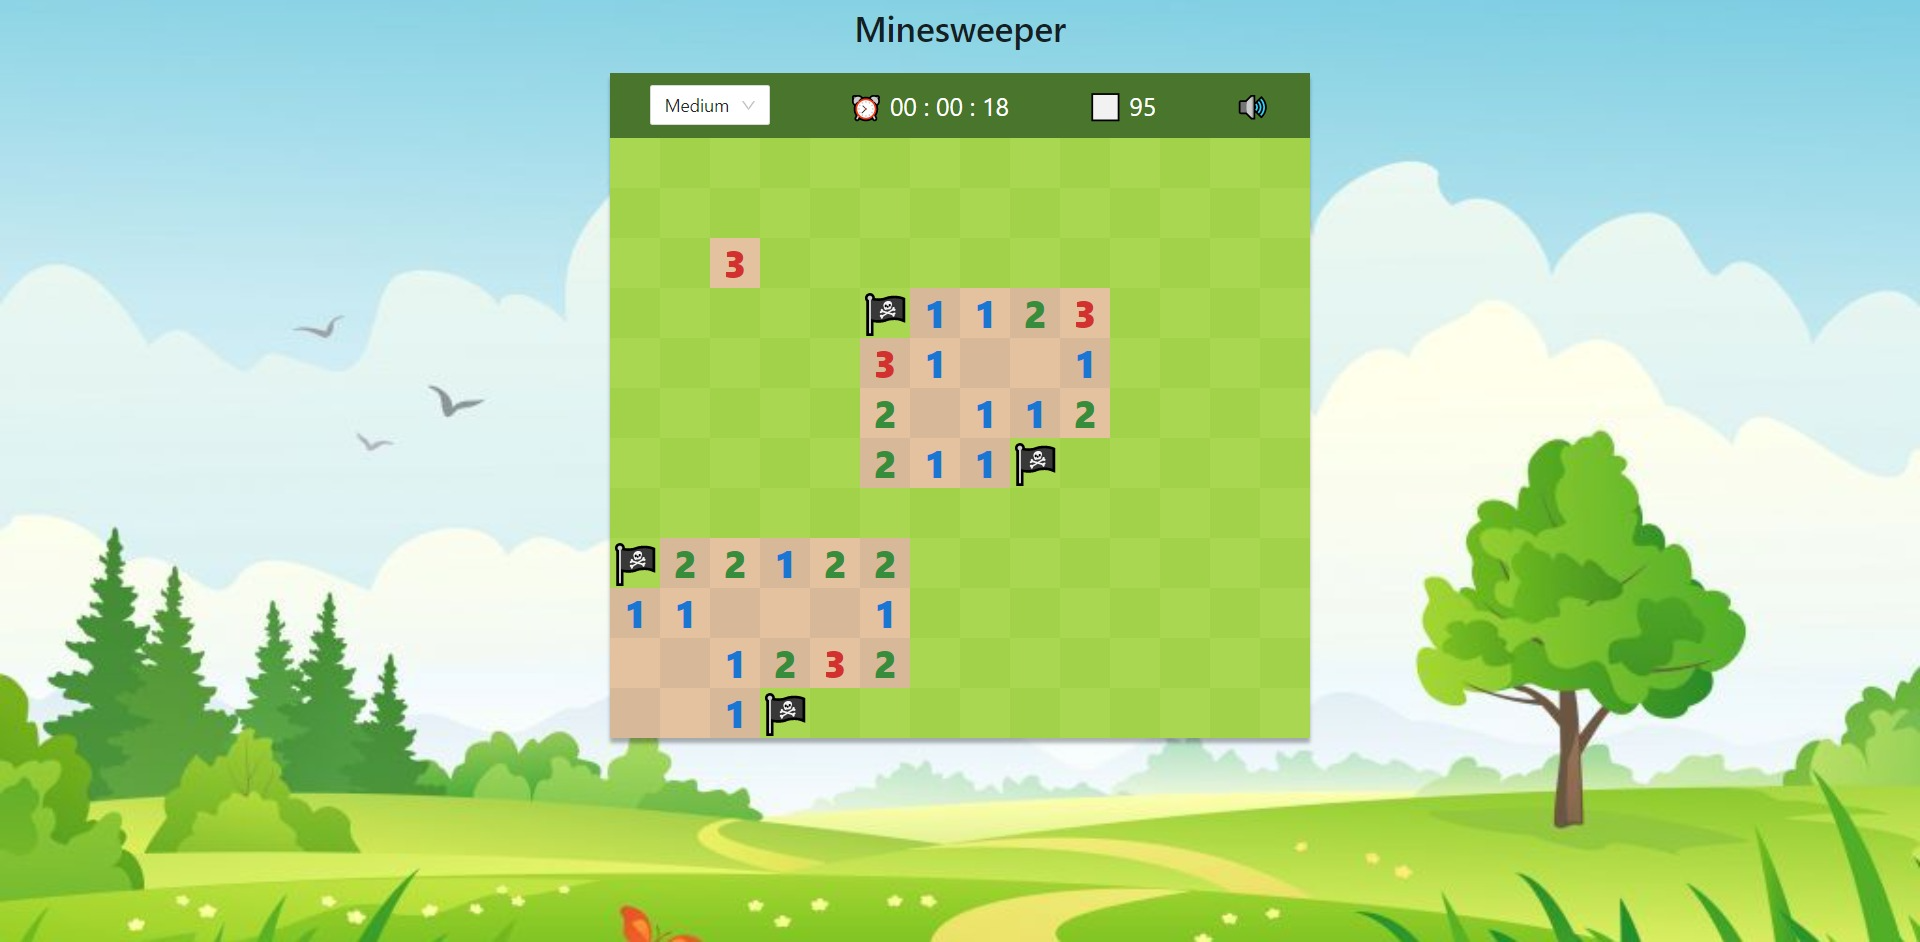
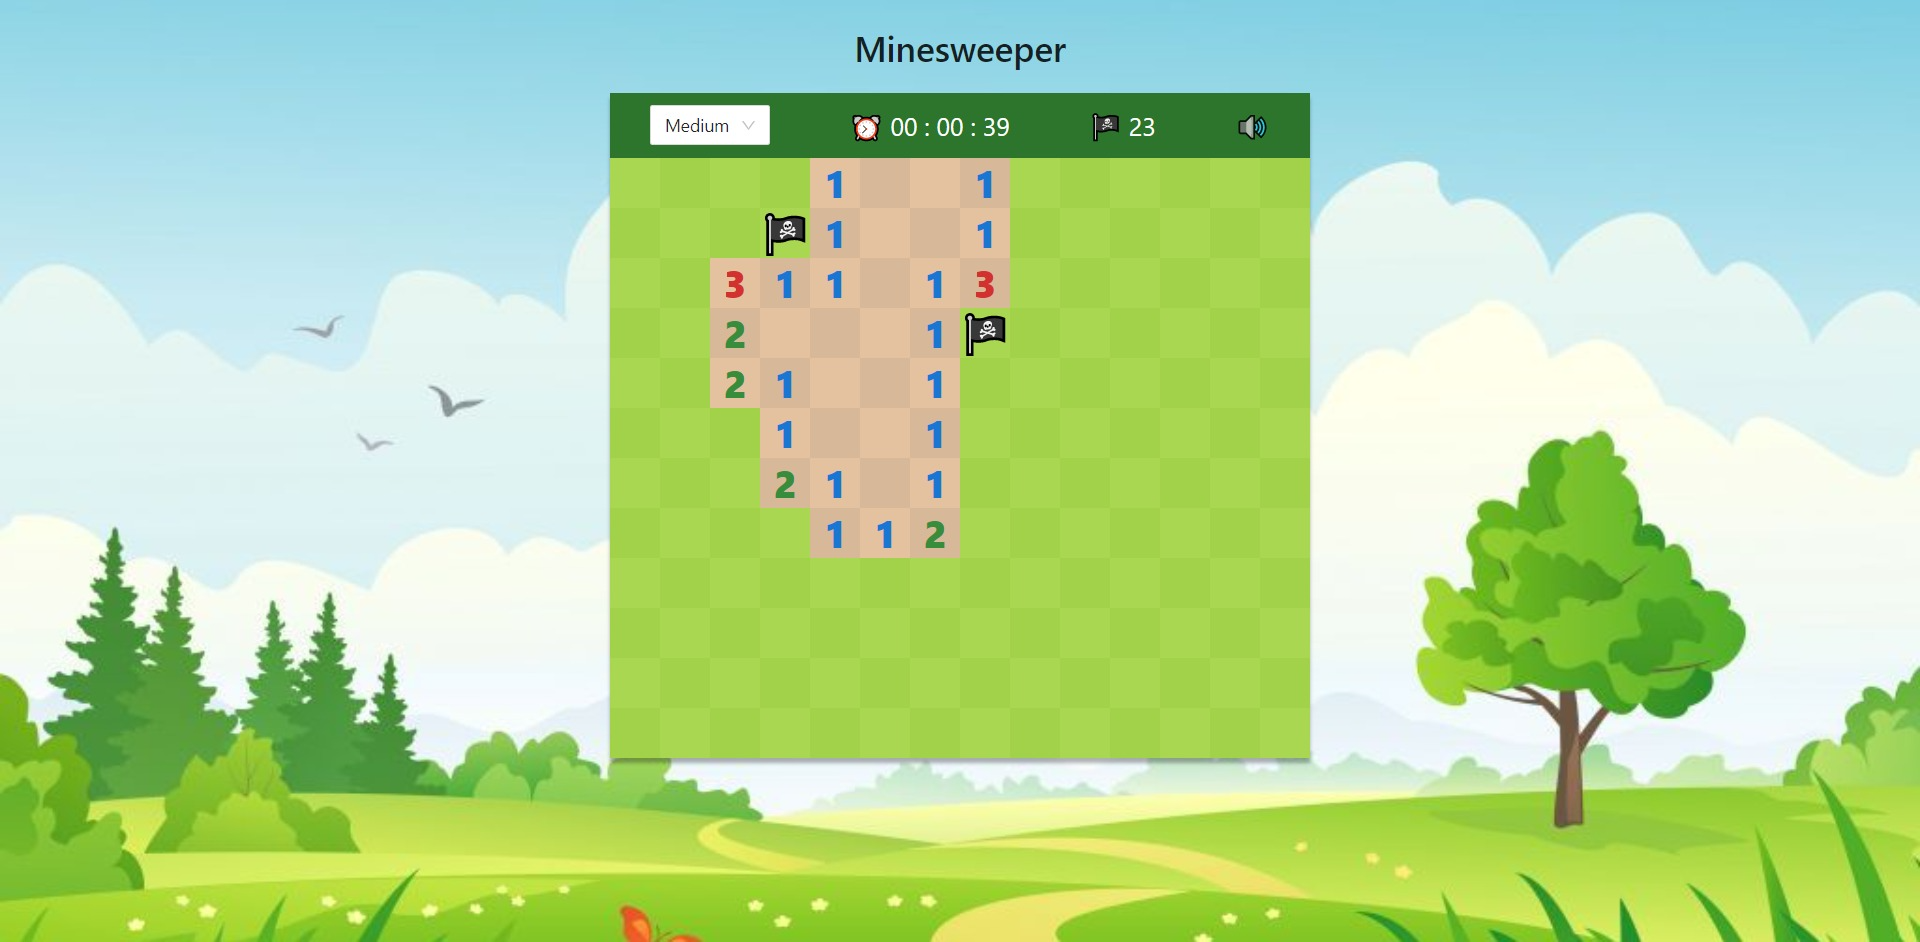
update component  Guide

Changed region(s): [[0.3125, 0.0, 0.6875, 0.8312]]

diff --git a/src/components/Board.js b/src/components/Board.js
@@ -5,7 +5,13 @@ import revealed from "../util/reveal";
 import createBoard from "../util/createBoard";
 
 import { BOARD_GAME } from "../util/constants";
-import { audioRevealed, audioGameOver, audioGameWin } from "../util/audio";
+import {
+  audioRevealed,
+  audioFlagged,
+  audioGameOver,
+  audioGameWin,
+} from "../util/audio";
+import Guide from "./Guide";
 
 const Board = ({
   setIsRunning,
@@ -15,11 +21,14 @@ const Board = ({
   isRestartGame,
   setIsRestartGame,
   level,
-  nonMinesCount,
-  setNonMinesCount,
+  setMinesCount,
+  minesCount,
+  gameOver,
 }) => {
   const [board, setBoard] = useState([]);
+  const [nonMinesCount, setNonMinesCount] = useState(0);
   const [mineLocations, setMineLocations] = useState([]);
+  const [showGuide, setShowGuide] = useState(true);
 
   useEffect(() => {
     const generateBoard = () => {
@@ -34,6 +43,7 @@ const Board = ({
         BOARD_GAME[level].numColumn * BOARD_GAME[level].numRow -
           BOARD_GAME[level].numBomb
       );
+      setMinesCount(BOARD_GAME[level].numBomb);
       setBoard(getBoard.board);
       setMineLocations(getBoard.mineLocation);
       setGameOver(false);
@@ -49,6 +59,7 @@ const Board = ({
     setGameOver,
     setGameWin,
     setNonMinesCount,
+    setMinesCount,
   ]);
 
   const updateBoard = (x, y, e) => {
@@ -89,9 +100,20 @@ const Board = ({
     let newBoardValues = JSON.parse(JSON.stringify(board));
     newBoardValues[x][y].flagged = !newBoardValues[x][y].flagged;
     setBoard(newBoardValues);
+    // if (newBoardValues[x][y].flagged) {
+    //   setMinesCount(minesCount - 1);
+    // } else {
+    //   setMinesCount(minesCount + 1);
+    // }
   };
+
+  const handleShowGuide = () => {
+    setShowGuide(false);
+  };
+
   return (
-    <div>
+    <div style={{ position: "relative" }} onClick={handleShowGuide}>
+      {showGuide && <Guide />}
       {board.map((row, indexRow) => {
         return (
           <div className="GridBoard" key={indexRow}>
@@ -105,7 +127,11 @@ const Board = ({
                   start={setIsRunning}
                   isVolume={isVolume}
                   audioRevealed={audioRevealed}
+                  audioFlagged={audioFlagged}
                   audioGameOver={audioGameOver}
+                  gameOver={gameOver}
+                  minesCount={minesCount}
+                  setMinesCount={setMinesCount}
                 />
               );
             })}

diff --git a/src/components/Guide.js b/src/components/Guide.js
@@ -1,0 +1,56 @@
+import React, { useEffect, useState, useRef } from "react";
+import styled from "styled-components";
+
+import ImgA from "../images/dig.png";
+import ImgB from "../images/flag.png";
+
+const Guide = () => {
+  const [showImgA, setShowImgA] = useState(true);
+
+  const countRef = useRef();
+
+  useEffect(() => {
+    countRef.current = setInterval(() => setShowImgA(!showImgA), 1500);
+    console.log("showImgA", showImgA);
+
+    return () => clearInterval(countRef.current);
+  }, [showImgA]);
+
+  return (
+    <StyledImg>
+      <div className={showImgA ? "ShowA Img" : "ShowB Img"} />
+    </StyledImg>
+  );
+};
+
+export default Guide;
+
+const StyledImg = styled.div`
+  position: absolute;
+  z-index: 1;
+  width: 100%;
+  height: 100%;
+  opacity: 0.5;
+  background-color: grey;
+
+  .ShowA {
+    background: url(${ImgA}) center;
+  }
+  .ShowB {
+    background: url(${ImgB});
+  }
+
+  .Img {
+    height: 140px;
+    width: 140px;
+    border: 8px solid black;
+    border-radius: 16px;
+    background-repeat: no-repeat;
+    background-size: contain;
+    background-color: black;
+    position: absolute;
+    top: 50%;
+    left: 50%;
+    transform: translate(-50%, -50%);
+  }
+`;

diff --git a/src/components/Game.js b/src/components/Game.js
@@ -12,7 +12,7 @@ const Game = () => {
   const [isVolume, setIsVolume] = useState(true);
   const [gameOver, setGameOver] = useState(false);
   const [isRunning, setIsRunning] = useState(false);
-  const [nonMinesCount, setNonMinesCount] = useState(0);
+  const [minesCount, setMinesCount] = useState(0);
   const [level, setOnLevelChange] = useState("Medium");
 
   return (
@@ -25,7 +25,7 @@ const Game = () => {
         />
       )}
       <TopBar
-        nonMinesCount={nonMinesCount}
+        minesCount={minesCount}
         onChange={setOnLevelChange}
         defaultValue={level}
         onResetTime={onReset}
@@ -43,8 +43,9 @@ const Game = () => {
         isRestartGame={isRestartGame}
         setIsRestartGame={setIsRestartGame}
         level={level}
-        nonMinesCount={nonMinesCount}
-        setNonMinesCount={setNonMinesCount}
+        setMinesCount={setMinesCount}
+        minesCount={minesCount}
+        gameOver={gameOver}
       />
     </StyledGame>
   );

diff --git a/src/components/Cell.js b/src/components/Cell.js
@@ -9,8 +9,12 @@ const Cell = ({
   flagCell,
   start,
   audioRevealed,
+  audioFlagged,
   audioGameOver,
   isVolume,
+  gameOver,
+  minesCount,
+  setMinesCount,
 }) => {
   const styleColorBg = {
     color: numColorCode(data.value),
@@ -22,7 +26,7 @@ const Cell = ({
   };
 
   const onClickUpdate = (e) => {
-    if (data.flagged) {
+    if (data.flagged || gameOver) {
       return;
     }
 
@@ -41,7 +45,17 @@ const Cell = ({
 
   const onClickFlag = (e) => {
     e.preventDefault();
-    flagCell(data.x, data.y);
+    !gameOver && flagCell(data.x, data.y);
+    if (!data.revealed && !gameOver) {
+      if (!data.flagged) {
+        setMinesCount(minesCount - 1);
+      } else {
+        setMinesCount(minesCount + 1);
+      }
+      if (isVolume) {
+        audioFlagged();
+      }
+    }
   };
 
   return (

diff --git a/src/components/TopBar.js b/src/components/TopBar.js
@@ -11,7 +11,6 @@ import { Select } from "antd";
 const { Option } = Select;
 
 const TopBar = ({
-  nonMinesCount,
   onChange,
   defaultValue,
   onResetTime,
@@ -20,6 +19,7 @@ const TopBar = ({
   isVolume,
   setOnResetTime,
   setIsVolume,
+  minesCount,
 }) => {
   const onReset = (newLevel) => {
     onChange(newLevel);
@@ -50,7 +50,7 @@ const TopBar = ({
       />
 
       <span className="Span" role="img" aria-label="flag">
-        ⬜ {nonMinesCount}
+        🏴☠ {minesCount}
       </span>
 
       <Volume isVolume={isVolume} setIsVolume={setIsVolume} />
@@ -61,7 +61,7 @@ const TopBar = ({
 export default TopBar;
 
 const StyledTopBar = styled.div`
-  background: #4a752c;
+  background: #2d752c;
   padding: 10px 0;
   display: flex;
   flex-direction: row;

diff --git a/src/util/audio.js b/src/util/audio.js
@@ -1,9 +1,14 @@
 import audioGO from "../music/gameOver.mp3";
 import audioGW from "../music/gameWin.mp3";
 import audioRD from "../music/revealed.mp3";
+import audioFG from "../music/flagged.mp3";
 
 const audioRevealed = () => {
   new Audio(audioRD).play();
+};
+
+const audioFlagged = () => {
+  new Audio(audioFG).play();
 };
 
 const audioGameOver = () => {
@@ -14,4 +19,4 @@ const audioGameWin = () => {
   new Audio(audioGW).play();
 };
 
-export { audioRevealed, audioGameOver, audioGameWin };
+export { audioRevealed, audioFlagged, audioGameOver, audioGameWin };

diff --git a/src/components/Modal.js b/src/components/Modal.js
@@ -68,11 +68,13 @@ const StyledModal = styled.div`
   }
 
   .TryAgain {
+    position: relative;
+    z-index: 1;
     cursor: pointer;
     margin: 0 50px;
     border-radius: 7px;
     background: darkgreen;
-    color: rgb(158, 255, 158);
+    color: white;
     padding: 10px;
     font-weight: 700;
     text-align: center;
